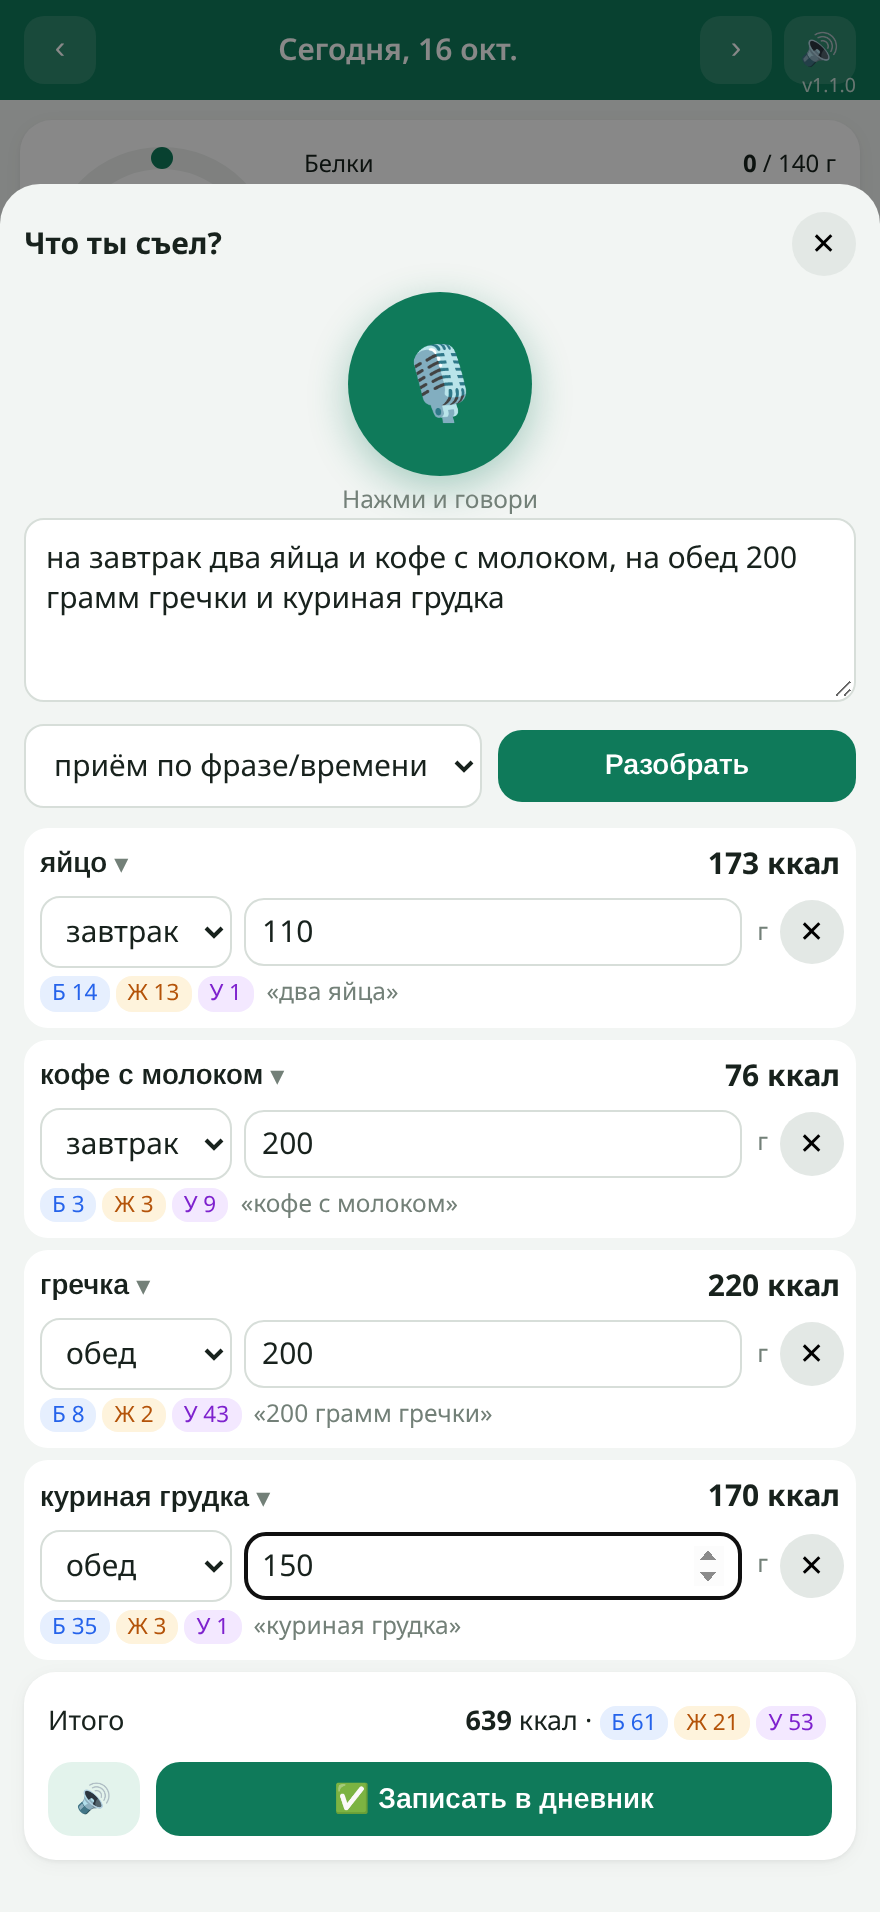
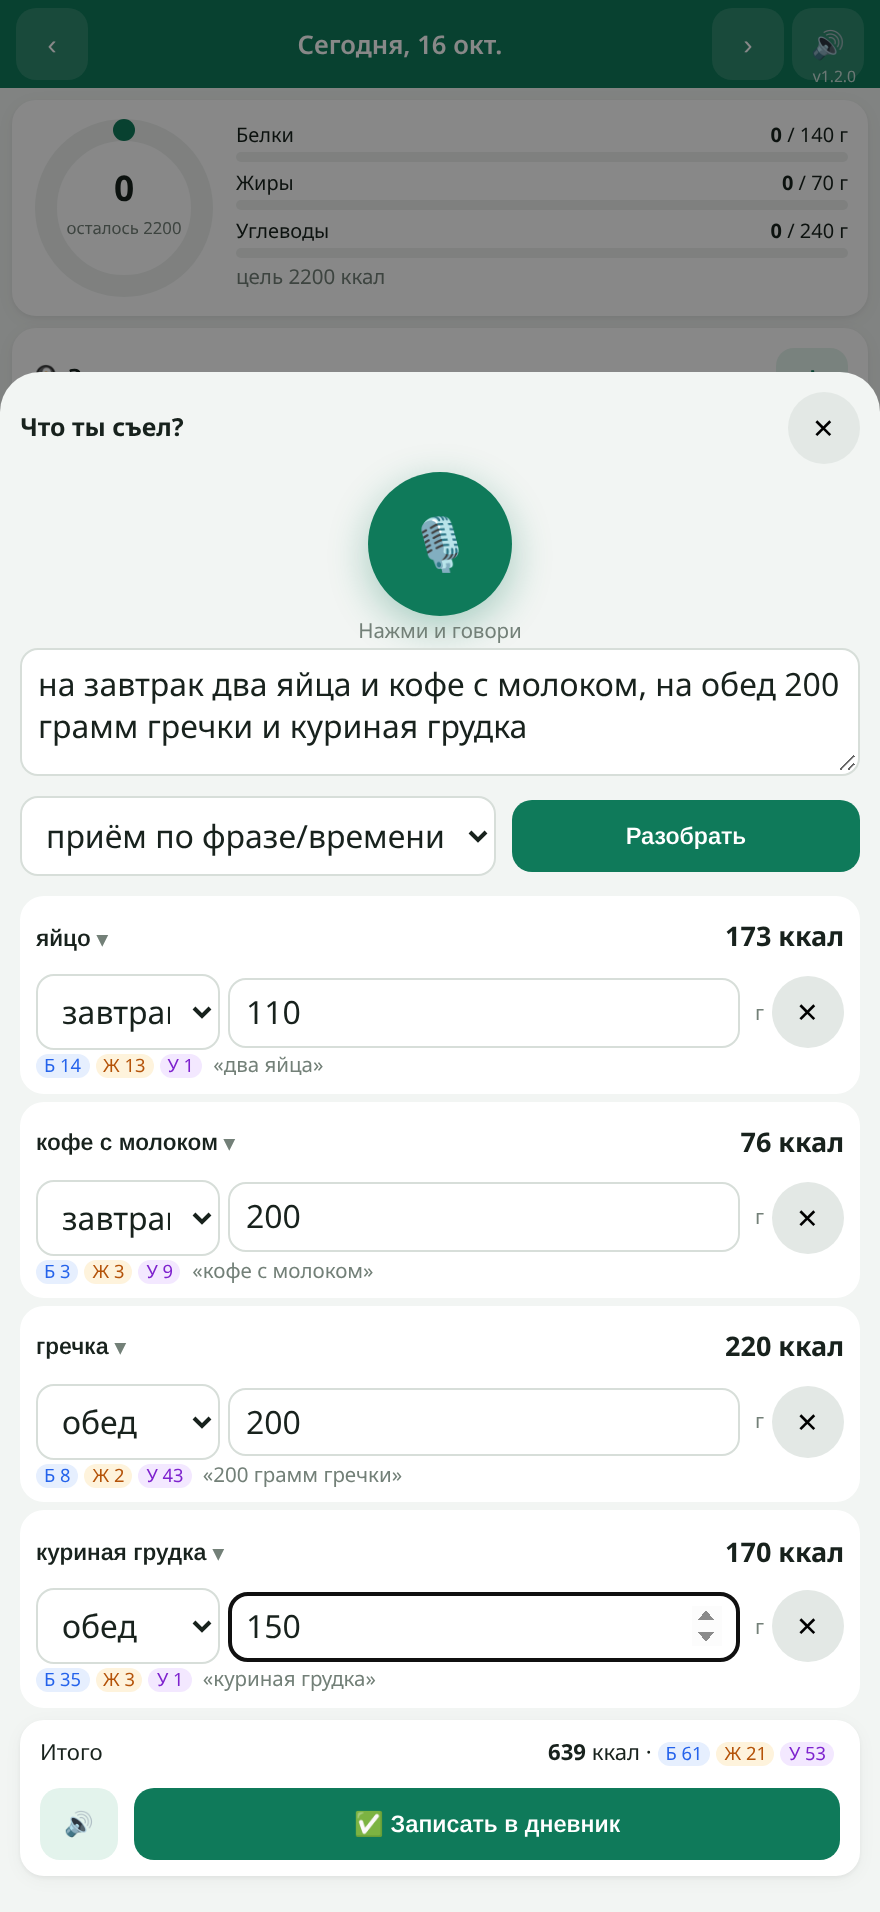
v1.2.0: компактная вёрстка для iPhone 440px, сворачиваемые секции

Changed region(s): [[0.0, 0.0, 1.0, 0.9874], [0.7364, 0.2777, 0.8898, 0.3086]]

diff --git a/app.js b/app.js
@@ -1,5 +1,5 @@
 'use strict';
-const VER='1.1.0';
+const VER='1.2.0';
 const $=s=>document.querySelector(s), R=Math.round, esc=s=>String(s==null?'':s).replace(/[&<>"]/g,c=>({'&':'&amp;','<':'&lt;','>':'&gt;','"':'&quot;'}[c]));
 const MEALS=['завтрак','обед','ужин','перекус'], MI={завтрак:'🍳',обед:'🍲',ужин:'🍽',перекус:'🍎'};
 const KEY='kbju.v1';
@@ -63,9 +63,9 @@ function ring(v,g,size,color,label,sub){ const r=size/2-7,C=2*Math.PI*r,p=Math.m
   return `<svg width="${size}" height="${size}" viewBox="0 0 ${size} ${size}"><circle cx="${size/2}" cy="${size/2}" r="${r}" fill="none" stroke="#eef1ef" stroke-width="11"/><circle cx="${size/2}" cy="${size/2}" r="${r}" fill="none" stroke="${over?'var(--red)':color}" stroke-width="11" stroke-linecap="round" stroke-dasharray="${C*p} ${C}" transform="rotate(-90 ${size/2} ${size/2})"/><text x="50%" y="46%" text-anchor="middle" font-size="${size/5.2}" font-weight="700" fill="currentColor">${label}</text><text x="50%" y="64%" text-anchor="middle" font-size="${size/11}" fill="#738078">${sub}</text></svg>` }
 function bar(name,v,g,col){ return `<div class="bar"><div class="t"><span>${name}</span><span><b>${R(v)}</b> / ${R(g)} г</span></div><div class="tr"><i style="width:${Math.min(100,g?v/g*100:0)}%;background:${v>g*1.1?'var(--red)':col}"></i></div></div>` }
 function summary(t,g,mul){ mul=mul||1; const left=R(g.k*mul-t.k);
-  return `<div class="sum">${ring(t.k,g.k*mul,118,'var(--K)',R(t.k),left>=0?'осталось '+left:'перебор '+(-left))}<div class="bars">${bar('Белки',t.p,g.p*mul,'var(--P)')}${bar('Жиры',t.f,g.f*mul,'var(--F)')}${bar('Углеводы',t.c,g.c*mul,'var(--C)')}<div class="mu">цель ${R(g.k*mul)} ккал</div></div></div>` }
+  return `<div class="sum">${ring(t.k,g.k*mul,92,'var(--K)',R(t.k),left>=0?'осталось '+left:'перебор '+(-left))}<div class="bars">${bar('Белки',t.p,g.p*mul,'var(--P)')}${bar('Жиры',t.f,g.f*mul,'var(--F)')}${bar('Углеводы',t.c,g.c*mul,'var(--C)')}<div class="mu">цель ${R(g.k*mul)} ккал</div></div></div>` }
 const chips=e=>`<span class="chip cP">Б ${R(e.p)}</span><span class="chip cF">Ж ${R(e.f)}</span><span class="chip cC">У ${R(e.c)}</span>`;
-function advHtml(list,sayId){ return `<div class="card"><div class="row"><h2 class="sp">Советы</h2><button class="btn s sm" data-say="${sayId}">🔊</button></div>${list.map(([i,t])=>`<div class="adv"><span>${i}</span><span>${esc(t)}</span></div>`).join('')}</div>` }
+function advHtml(list,sayId){ const k='adv_'+sayId; return `<details class="card col" data-k="${k}" ${S.set[k]?'open':''}><summary class="row"><h2 class="sp">💡 Советы <span class="mu">${list.length}</span></h2><button class="btn s sm" data-say="${sayId}" onclick="event.preventDefault()">🔊</button><span class="chev">›</span></summary>${list.map(([i,t])=>`<div class="adv"><span>${i}</span><span>${esc(t)}</span></div>`).join('')}</details>` }
 let lastAdv={};
 function render(){ $('#dlabel').textContent=tab==='diary'||(tab==='stats'&&statMode==='day')?fmtD(cur):({stats:'Статистика',recipes:'Рецепты',goals:'Цели',more:'Ещё'})[tab];
   $('#prev').style.visibility=$('#next').style.visibility=(tab==='diary'||tab==='stats')?'visible':'hidden';
@@ -75,16 +75,16 @@ function vDiary(){ const L=day(cur), t=tot(L), g=S.goals, w=S.water[cur]||0; con
   let h=`<div class="card">${summary(t,g)}</div>`;
   h+=`<div class="card">`+MEALS.map(m=>{ const es=L.filter(e=>e.meal===m), mt=tot(es);
     return `<div class="meal"><div class="mh">${MI[m]} ${m[0].toUpperCase()+m.slice(1)} <span class="mu">${es.length?R(mt.k)+' ккал':''}</span><button class="add" data-addm="${m}">＋</button></div>`+
-     es.map(e=>`<div class="it" data-edit="${e.id}"><div class="n"><div>${esc(e.name)}</div><div class="mu">${R(e.g)} г · ${chips(e)}</div></div><div class="k">${R(e.k)}</div></div>`).join('')+`</div>` }).join('')+`</div>`;
-  if(S.set.water) h+=`<div class="card"><div class="row"><h2 class="sp">💧 Вода <span class="mu">${w} / ${g.w} мл</span></h2><button class="btn s sm" data-water="-250">−</button><button class="btn sm" data-water="250">＋250</button></div><div class="wt">${Array.from({length:Math.ceil(g.w/250)},(_,i)=>`<i class="${i<w/250?'f':''}"></i>`).join('')}</div></div>`;
+     es.map(e=>`<div class="it il" data-edit="${e.id}"><span class="n">${esc(e.name)}</span><span class="mu">${R(e.g)}г</span><span class="mac">${R(e.p)}·${R(e.f)}·${R(e.c)}</span><span class="k">${R(e.k)}</span></div>`).join('')+`</div>` }).join('')+`</div>`;
+  if(S.set.water) h+=`<div class="card row wrow"><b>💧 ${w}<span class="mu"> / ${g.w} мл</span></b><div class="wt sp">${Array.from({length:Math.ceil(g.w/250)},(_,i)=>`<i class="${i<w/250?'f':''}"></i>`).join('')}</div><button class="btn s sm" data-water="-250">−</button><button class="btn sm" data-water="250">＋250</button></div>`;
   return h+advHtml(adv,'day') }
 function periodKeys(mode){ const n=mode==='week'?7:30; return Array.from({length:n},(_,i)=>addD(cur,i-n+1)) }
-function chart(keys,key,goal,col,unit){ const W=400,H=130,vals=keys.map(k=>tot(day(k))[key]),mx=Math.max(goal*1.25,...vals,1),bw=W/keys.length;
+function chart(keys,key,goal,col,unit){ const W=400,H=95,vals=keys.map(k=>tot(day(k))[key]),mx=Math.max(goal*1.25,...vals,1),bw=W/keys.length;
   let s=`<svg viewBox="0 0 ${W} ${H+16}" width="100%"><line x1="0" x2="${W}" y1="${H-goal/mx*H}" y2="${H-goal/mx*H}" stroke="#738078" stroke-dasharray="4 4" stroke-width="1"/>`;
   vals.forEach((v,i)=>{const h=v/mx*H; s+=`<rect x="${i*bw+bw*.15}" y="${H-h}" width="${bw*.7}" height="${h}" rx="${Math.min(4,bw*.2)}" fill="${v>goal*1.08&&key==='k'?'#e04848':col}"/>`;
    if(keys.length<=7||i%5===0) s+=`<text x="${i*bw+bw/2}" y="${H+13}" font-size="11" text-anchor="middle" fill="#738078">${keys.length<=7?pd(keys[i]).toLocaleDateString('ru-RU',{weekday:'short'}):pd(keys[i]).getDate()}</text>`});
   return s+`</svg>` }
-function macroChart(keys){ const W=400,H=110,bw=W/keys.length; let mx=1; const ts=keys.map(k=>tot(day(k))); ts.forEach(t=>mx=Math.max(mx,t.p*4+t.f*9+t.c*4));
+function macroChart(keys){ const W=400,H=80,bw=W/keys.length; let mx=1; const ts=keys.map(k=>tot(day(k))); ts.forEach(t=>mx=Math.max(mx,t.p*4+t.f*9+t.c*4));
   let s=`<svg viewBox="0 0 ${W} ${H}" width="100%">`; ts.forEach((t,i)=>{let y=H;[['p',4,'#3b82f6'],['f',9,'#f59e0b'],['c',4,'#a855f7']].forEach(([k,m,c])=>{const h=t[k]*m/mx*H;y-=h;s+=`<rect x="${i*bw+bw*.15}" y="${y}" width="${bw*.7}" height="${h}" fill="${c}"/>`})}); return s+'</svg>' }
 function topFoods(list){ const m={}; list.forEach(e=>{const x=m[e.name]||(m[e.name]={n:e.name,k:0,c:0,p:0});x.k+=e.k;x.c++;x.p+=e.p}); return Object.values(m).sort((a,b)=>b.k-a.k).slice(0,8) }
 function vStats(){ const seg=`<div class="seg">${[['day','День'],['week','Неделя'],['month','Месяц']].map(([k,n])=>`<button data-sm="${k}" class="${statMode===k?'on':''}">${n}</button>`).join('')}</div>`; const g=S.goals;
@@ -92,18 +92,18 @@ function vStats(){ const seg=`<div class="seg">${[['day','День'],['week','Н
     let h=seg+`<div class="card">${summary(t,g)}</div><div class="card"><h2>По приёмам пищи</h2>${MEALS.map(m=>{const x=tot(L.filter(e=>e.meal===m));return `<div class="kv"><span>${MI[m]} ${m}</span><span><b>${R(x.k)}</b> ккал · ${chips(x)}</span></div>`}).join('')}
      <h3>Доля калорий</h3><div class="tr" style="display:flex;height:12px;border-radius:6px;overflow:hidden;background:#eef1ef"><i style="width:${t.p*4/kc*100}%;background:var(--P)"></i><i style="width:${t.f*9/kc*100}%;background:var(--F)"></i><i style="width:${t.c*4/kc*100}%;background:var(--C)"></i></div>
      <div class="mu">Белки ${R(t.p*4/kc*100)}% · Жиры ${R(t.f*9/kc*100)}% · Углеводы ${R(t.c*4/kc*100)}%</div></div>`;
-    const tf=topFoods(L); h+=`<div class="card"><h2>Топ продуктов дня</h2>${tf.length?tf.map(x=>`<div class="kv"><span>${esc(x.n)}</span><b>${R(x.k)} ккал</b></div>`).join(''):'<div class="empty">Нет записей</div>'}</div>`;
+    const tf=topFoods(L); h+=`<details class="card col" data-k="c_topd" ${S.set.c_topd?'open':''}><summary class="row"><h2 class="sp">Топ продуктов дня</h2><span class="chev">›</span></summary>${tf.length?tf.map(x=>`<div class="kv"><span>${esc(x.n)}</span><b>${R(x.k)} ккал</b></div>`).join(''):'<div class="empty">Нет записей</div>'}</details>`;
     lastAdv.stat=advice(L,g,{water:S.water[cur]||0}); return h+vNutri([cur])+advHtml(lastAdv.stat,'stat') }
   const keys=periodKeys(statMode), act=keys.filter(k=>day(k).length), n=Math.max(1,act.length), all=keys.flatMap(day), T=tot(all), av={k:T.k/n,p:T.p/n,f:T.f/n,c:T.c/n};
   let h=seg+`<div class="card"><h2>Среднее за день <span class="mu">(${act.length} дн. с записями)</span></h2>${summary(av,g)}</div>`+vNutri(keys);
   h+=`<div class="card"><h2>Калории <span class="mu">— пунктир: цель ${g.k}</span></h2>${chart(keys,'k',g.k,'#0f7a5a')}</div>`;
   h+=`<div class="card"><h2>Б/Ж/У (ккал) <span class="mu"><span style="color:var(--P)">■</span> Б <span style="color:var(--F)">■</span> Ж <span style="color:var(--C)">■</span> У</span></h2>${macroChart(keys)}<div class="g3" style="margin-top:6px;text-align:center"><div><b>${R(av.p)}</b><div class="mu">белки ср., г</div></div><div><b>${R(av.f)}</b><div class="mu">жиры ср., г</div></div><div><b>${R(av.c)}</b><div class="mu">углеводы ср., г</div></div></div></div>`;
-  h+=`<div class="card"><h2>Белок по дням</h2>${chart(keys,'p',g.p,'#3b82f6')}</div>`;
-  const tf=topFoods(all); h+=`<div class="card"><h2>Топ продуктов</h2>${tf.length?tf.map(x=>`<div class="kv"><span>${esc(x.n)} <span class="mu">×${x.c}</span></span><b>${R(x.k)} ккал</b></div>`).join(''):'<div class="empty">Нет записей</div>'}</div>`;
+  h+=`<details class="card col" data-k="c_prot" ${S.set.c_prot?'open':''}><summary class="row"><h2 class="sp">Белок по дням</h2><span class="chev">›</span></summary>${chart(keys,'p',g.p,'#3b82f6')}</details>`;
+  const tf=topFoods(all); h+=`<details class="card col" data-k="c_top" ${S.set.c_top?'open':''}><summary class="row"><h2 class="sp">Топ продуктов</h2><span class="chev">›</span></summary>${tf.length?tf.map(x=>`<div class="kv"><span>${esc(x.n)} <span class="mu">×${x.c}</span></span><b>${R(x.k)} ккал</b></div>`).join(''):'<div class="empty">Нет записей</div>'}</details>`;
   lastAdv.stat=periodAdvice(keys); return h+advHtml(lastAdv.stat,'stat') }
 function vNutri(keys){ const r=NUTRI.analyze({days:keys.map(k=>({key:k,entries:day(k),water:S.water[k]||0})),goals:S.goals,prof:S.prof,tdee:mifflin(S.prof).tdee,mode:statMode,trackWater:S.set.water}); lastAdv.nutri=[[0,r.speech]];
   const col=r.score>=8?'var(--g)':r.score>=5?'var(--F)':'var(--red)';
-  return `<details class="card nutri" ${S.set.nutriOpen!==false?'open':''}><summary class="row"><h2 class="sp" style="margin:0">🩺 Нутрициолог</h2>${r.empty?'':`<span class="score" style="background:${col}">${r.score}/10</span>`}<button class="btn s sm" data-say="nutri" onclick="event.preventDefault()">🔊</button><span class="chev">›</span></summary>
+  return `<details class="card nutri" ${S.set.nutriOpen?'open':''}><summary class="row"><h2 class="sp" style="margin:0">🩺 Нутрициолог</h2>${r.empty?'':`<span class="score" style="background:${col}">${r.score}/10</span>`}<button class="btn s sm" data-say="nutri" onclick="event.preventDefault()">🔊</button><span class="chev">›</span></summary>
   ${r.empty?`<div class="mu" style="margin-top:6px">${esc(r.plan[0])}</div>`:`
   <h3>👍 Сильные стороны</h3>${r.strengths.map(x=>`<div class="adv"><span>✅</span><span>${esc(x.t)}</span></div>`).join('')||'<div class="mu">—</div>'}
   <h3>⚠ Что улучшить</h3>${r.problems.map(x=>`<div class="adv"><span>🔸</span><span>${esc(x.t)}${x.swap?`<br><b class="swap">→ ${esc(x.swap)}</b>`:''}</span></div>`).join('')||'<div class="mu">Серьёзных проблем нет.</div>'}
@@ -258,7 +258,7 @@ document.addEventListener('input',e=>{ const t=e.target,d=t.dataset;
   if(/^g[kpfc]$/.test(t.id)){ const k=+$('#gk').value,s=(+$('#gp').value)*4+(+$('#gf').value)*9+(+$('#gc').value)*4; $('#gsum').textContent=`Б/Ж/У дают ${R(s)} ккал (${k?R(s/k*100):0}% от цели)`; return }
   if(t.id==='sauto'){S.set.auto=t.checked;save();return} if(t.id==='swater'){S.set.water=t.checked;save();return}
 });
-document.addEventListener('toggle',e=>{ if(e.target.classList&&e.target.classList.contains('nutri')){S.set.nutriOpen=e.target.open;save()} },true);
+document.addEventListener('toggle',e=>{ const t=e.target; if(!t.classList)return; if(t.classList.contains('nutri')){S.set.nutriOpen=t.open;save()} else if(t.dataset&&t.dataset.k){S.set[t.dataset.k]=t.open;save()} },true);
 document.addEventListener('change',e=>{ const t=e.target,d=t.dataset; if(d.imeal!=null){V.items[+d.imeal].meal=t.value;return}
   if(t.id==='imp'&&t.files[0]){ t.files[0].text().then(x=>{ const j=JSON.parse(x); if(!j.days)throw 0; if(!confirm('Заменить текущие данные импортом?'))return; S=Object.assign(def(),j); save(); dirty(); render(); toast('Импортировано') }).catch(()=>toast('Неверный файл')) } });
 document.addEventListener('keydown',e=>{ if(e.key==='Enter'&&e.target.id==='pq'){e.preventDefault();showRes()} });

diff --git a/index.html b/index.html
@@ -41,6 +41,22 @@ nav button{flex:1;border:0;background:none;font-size:.7rem;color:var(--mu);paddi
 #toast{position:fixed;left:50%;transform:translateX(-50%);bottom:calc(150px + env(safe-area-inset-bottom));background:#18221de6;color:#fff;padding:9px 14px;border-radius:12px;z-index:30;display:none;font-size:.9rem;max-width:90vw}
 details.nutri>summary{list-style:none;cursor:pointer}details.nutri>summary::-webkit-details-marker{display:none}.chev{color:var(--mu);transition:transform .15s}details[open] .chev{transform:rotate(90deg)}.score{color:#fff;border-radius:10px;padding:3px 9px;font-weight:700;font-size:.9rem}.swap{color:var(--g);font-weight:600;font-size:.84rem}.plan{margin:0;padding-left:20px;font-size:.88rem}.plan li{margin:3px 0}
 video{width:100%;border-radius:12px;background:#000}
+/* ===== v1.2 компакт для iPhone 440px ===== */
+html,body{font-size:13.5px;line-height:1.3}header{padding:calc(4px + env(safe-area-inset-top)) 8px 4px;gap:4px}header .d{font-size:.95rem}header button{min-width:36px;height:36px;font-size:1rem}#ver{font-size:.58rem;bottom:0}
+main{padding:6px 6px calc(120px + env(safe-area-inset-bottom))}.card{padding:8px 10px;margin-bottom:6px;border-radius:12px}h2{font-size:.92rem;margin:0 0 4px}h3{font-size:.84rem;margin:6px 0 2px}.mu{font-size:.76rem}
+.sum{gap:10px}.bars{gap:4px}.bar{font-size:.74rem}.bar .tr{height:5px}
+.meal{padding:0}.meal .mh{padding:1px 0;font-size:.88rem;min-height:36px}.add{min-width:36px;min-height:32px;padding:0 10px}
+.it{padding:5px 0;gap:6px}.it.il{min-height:36px;font-size:.86rem}.it.il .n{flex:1;min-width:0;white-space:nowrap;overflow:hidden;text-overflow:ellipsis}.it.il .mac{font-size:.68rem;color:#8a948e;white-space:nowrap;font-variant-numeric:tabular-nums}.it.il .k{min-width:34px;text-align:right}
+.btn{padding:8px 12px;font-size:.88rem;border-radius:10px;min-height:36px}.btn.sm{padding:4px 10px;font-size:.78rem;min-height:36px;min-width:36px}
+input,select,textarea{padding:7px 8px;font-size:16px;border-radius:9px}textarea{min-height:64px}label{font-size:.72rem;margin:4px 0 1px}
+nav{padding:2px 2px calc(2px + env(safe-area-inset-bottom))}nav button{font-size:.62rem;padding:2px 0;min-height:40px}nav button b{font-size:1.05rem}
+#fab{width:54px;height:54px;font-size:1.4rem;right:12px;bottom:calc(54px + env(safe-area-inset-bottom))}
+.wrow{gap:6px;align-items:center}.wrow .wt i{width:11px;height:16px}.wt{gap:2px}
+details.col>summary{list-style:none;cursor:pointer;min-height:36px}details.col>summary::-webkit-details-marker{display:none}details.col>summary h2{margin:0}details[open].col .chev{transform:rotate(90deg)}
+.adv{padding:4px 0;font-size:.82rem}.kv{font-size:.82rem;padding:2px 0}.chip{font-size:.68rem;padding:0 4px}.seg{margin-bottom:6px}.seg button{padding:6px;min-height:36px}
+.mic{width:72px;height:72px;font-size:1.9rem;margin:2px auto}.hint{padding:6px 8px;font-size:.76rem;margin:4px 0}.sheet>div{padding:10px 10px calc(12px + env(safe-area-inset-bottom))}.sh{margin-bottom:4px}
+.pi{padding:6px 8px;margin-bottom:4px}.pi .nm{font-size:.86rem;white-space:nowrap;overflow:hidden;text-overflow:ellipsis;min-height:30px}.pi .ctl{grid-template-columns:92px 1fr 36px;margin-top:3px;gap:4px}.pi .mu{margin-top:2px!important}.x{width:36px;height:36px}
+.score{font-size:.8rem;padding:2px 7px}.plan{font-size:.8rem}.swap{font-size:.78rem}.res{padding:6px 0}
 </style></head><body>
 <header><button id="prev" aria-label="Предыдущий день">‹</button><div class="d" id="dlabel"></div><button id="next" aria-label="Следующий день">›</button><button id="say" title="Озвучить">🔊</button><span id="ver"></span></header>
 <main id="app"></main>

diff --git a/sw.js b/sw.js
@@ -1,4 +1,4 @@
-const V='1.1.0',C='kbju-'+V,F=['./','index.html','app.js','parser.js','nutri.js','db.js','manifest.json','icon-192.png','icon-512.png','apple-touch-icon.png'];
+const V='1.2.0',C='kbju-'+V,F=['./','index.html','app.js','parser.js','nutri.js','db.js','manifest.json','icon-192.png','icon-512.png','apple-touch-icon.png'];
 self.addEventListener('install',e=>{e.waitUntil(caches.open(C).then(c=>c.addAll(F.map(u=>new Request(u,{cache:'reload'})))));self.skipWaiting()});
 self.addEventListener('activate',e=>{e.waitUntil(caches.keys().then(k=>Promise.all(k.filter(x=>x!==C).map(x=>caches.delete(x)))).then(()=>self.clients.claim()))});
 // network-first без HTTP-кэша (cache:'no-store' — iOS не отдаст устаревший index.html); офлайн — из кэша

diff --git a/tests/e2e.py b/tests/e2e.py
@@ -14,7 +14,7 @@ async def main():
     await c.add_init_script(FAKE); pg=await c.new_page()
     pg.on('console',lambda m: m.type=='error' and errs.append(m.text)); pg.on('pageerror',lambda e: errs.append(str(e)))
     await pg.goto(URL); await pg.wait_for_selector('#nav button')
-    assert 'v1.1.0' in await pg.inner_text('#ver')
+    assert 'v1.2.0' in await pg.inner_text('#ver')
     # голос: завтрак+обед
     await pg.evaluate("window.__nextTranscript='на завтрак два яйца и кофе с молоком, на обед 200 грамм гречки и куриная грудка'")
     await pg.click('#fab'); await pg.wait_for_selector('.pi'); await pg.wait_for_timeout(300)
@@ -47,6 +47,8 @@ async def main():
     await pg.click('[data-tab="goals"]'); await pg.fill('#cw','92'); await pg.dispatch_event('#cw','input'); await pg.click('[data-applycalc]')
     g=await pg.evaluate('window.__kbju.S.goals'); print('goals',g)
     await pg.screenshot(path='shots/goals.png',full_page=False)
+    await pg.evaluate('window.scrollTo(0,0)'); await pg.click('[data-tab="diary"]'); await pg.wait_for_timeout(100); await pg.screenshot(path='shots/diary-compact.png')
+    vis=await pg.evaluate("(()=>{const m=[...document.querySelectorAll('.meal')];const last=m[m.length-1].getBoundingClientRect();return [last.bottom, innerHeight, document.querySelector('#fab').getBoundingClientRect().top]})()"); print('diary last-meal bottom / viewport',vis)
     # история для статистики (только в тесте)
     await pg.evaluate('''()=>{const S=window.__kbju.S;const F=self.FOODS;const pick=n=>F.find(f=>f.n===n);const L=['гречка','куриная грудка отварная','творог 5%','банан','борщ','пельмени','салат оливье','кофе с молоком','хлеб черный','шоколад молочный','яйцо','плов'];
       for(let i=1;i<30;i++){const d=new Date();d.setDate(d.getDate()-i);const k=d.getFullYear()+'-'+String(d.getMonth()+1).padStart(2,'0')+'-'+String(d.getDate()).padStart(2,'0');if(i%9===0)continue;
@@ -54,8 +56,8 @@ async def main():
       localStorage.setItem('kbju.v1',JSON.stringify(S))}''')
     await pg.reload(); await pg.wait_for_selector('#nav button')
     await pg.click('[data-tab="stats"]'); await pg.screenshot(path='shots/stats-day.png',full_page=False)
-    await pg.click('[data-sm="week"]'); await pg.wait_for_timeout(100); await pg.screenshot(path='shots/stats.png',full_page=False); await pg.evaluate('window.scrollTo(0,600)'); await pg.screenshot(path='shots/stats-week-bottom.png')
-    await pg.evaluate("document.querySelector('details.nutri').scrollIntoView();window.scrollBy(0,-62)"); await pg.wait_for_timeout(100); await pg.screenshot(path='shots/nutritionist.png')
+    await pg.click('[data-sm="week"]'); await pg.wait_for_timeout(100); await pg.screenshot(path='shots/stats.png',full_page=False); await pg.screenshot(path='shots/stats-compact.png'); await pg.evaluate('window.scrollTo(0,600)'); await pg.screenshot(path='shots/stats-week-bottom.png')
+    await pg.click('details.nutri summary h2'); await pg.evaluate("document.querySelector('details.nutri').scrollIntoView();window.scrollBy(0,-62)"); await pg.wait_for_timeout(100); await pg.screenshot(path='shots/nutritionist.png')
     nt=await pg.inner_text('details.nutri'); print('nutri week:',nt[:400].replace('\n',' | ')); assert '/10' in nt and 'не медицинская' in nt
     await pg.click('[data-say="nutri"]'); print('nutri tts:',(await pg.evaluate('window.__tts'))[-1][:160])
     await pg.click('[data-sm="month"]'); await pg.wait_for_timeout(100); await pg.screenshot(path='shots/stats-month.png',full_page=False)
